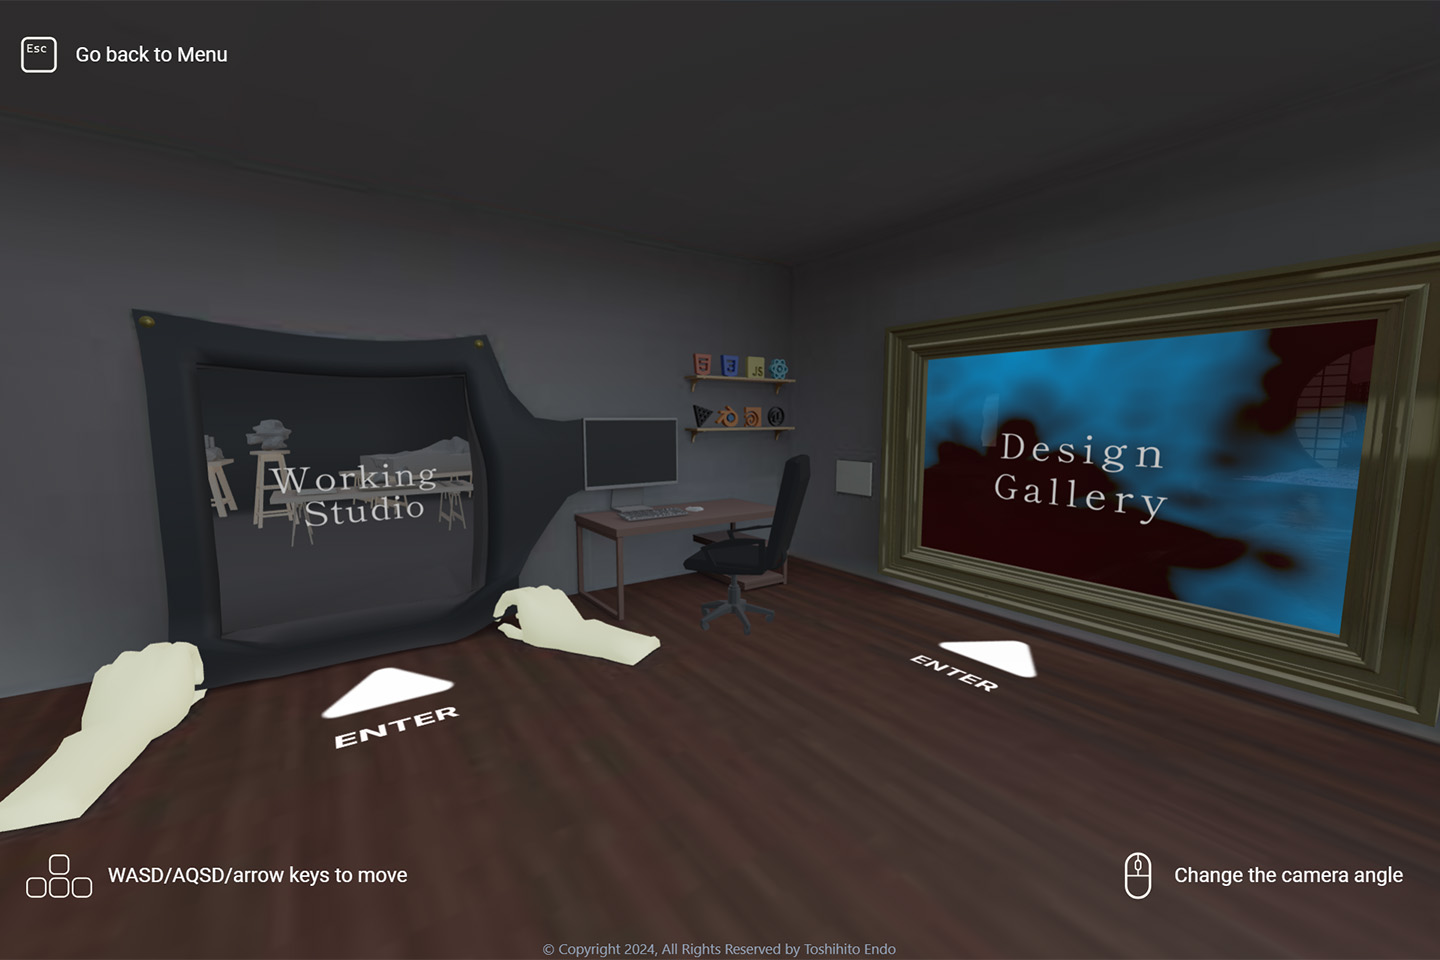
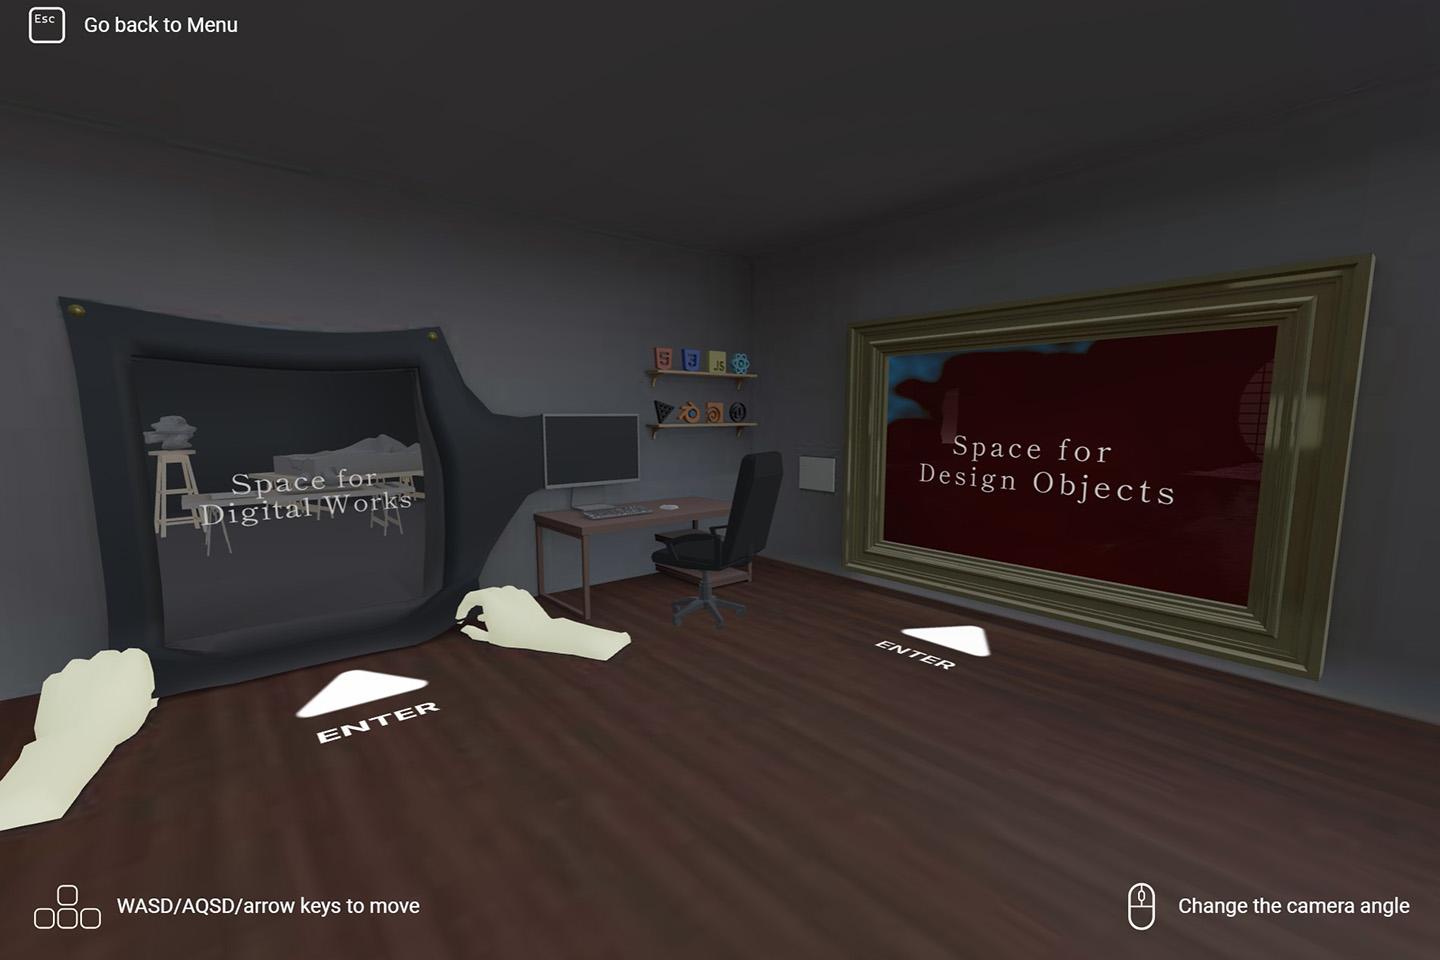
updated the portfolio 2024 thumnail image

diff --git a/src/components/models/stage/Stage.jsx b/src/components/models/stage/Stage.jsx
@@ -601,7 +601,7 @@ export default function Stage(props) {
           position={[-39, 18, 25]}
           rotation={[0, Math.PI / 2, 0]}
           font="./fonts/shippori-mincho-b1-v21-japanese-regular.woff"
-          fontSize={4.0}
+          fontSize={3.0}
           maxWidth={45.0}
           anchorX="center"
           anchorY="middle"
@@ -611,7 +611,7 @@ export default function Stage(props) {
           color="#FFFFFF"
           // color="#FF028D"
         >
-          Working {"\n"} Studio
+          Space for {"\n"} Digital Works
         </DreiText>
 
         <group
@@ -1114,8 +1114,8 @@ export default function Stage(props) {
           position={[13, 21, -46]}
           // rotation={[0, 0, Math.PI * 0.1]}
           font="./fonts/shippori-mincho-b1-v21-japanese-regular.woff"
-          fontSize={4.5}
-          maxWidth={7.0}
+          fontSize={3.5}
+          maxWidth={50.0}
           anchorX="center"
           anchorY="middle"
           textAlign="center"
@@ -1124,7 +1124,7 @@ export default function Stage(props) {
           // color="#FFE302"
           color="#FFFFFF"
         >
-          Design Gallery
+          Space for {"\n"} Design Objects
         </DreiText>
 
         <group
